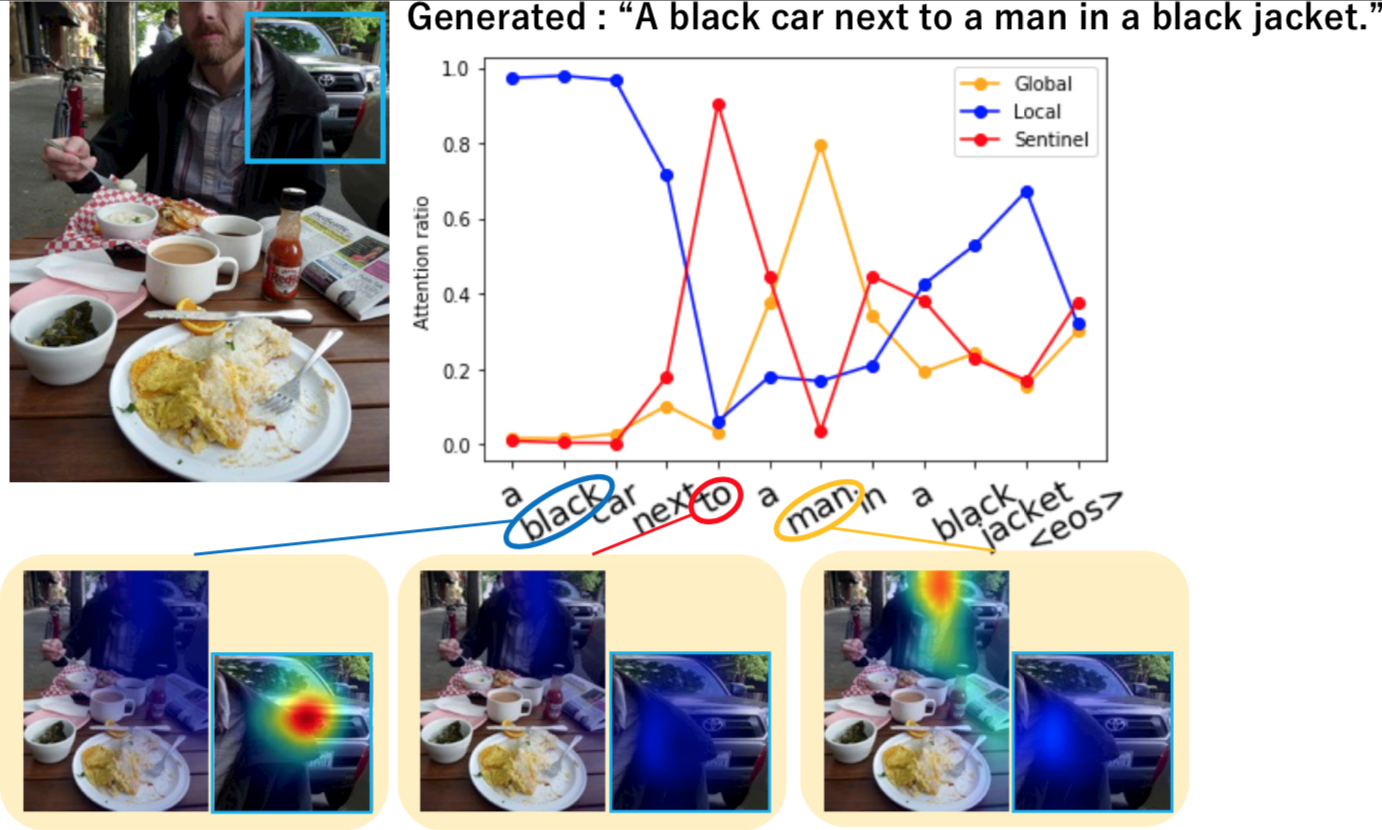
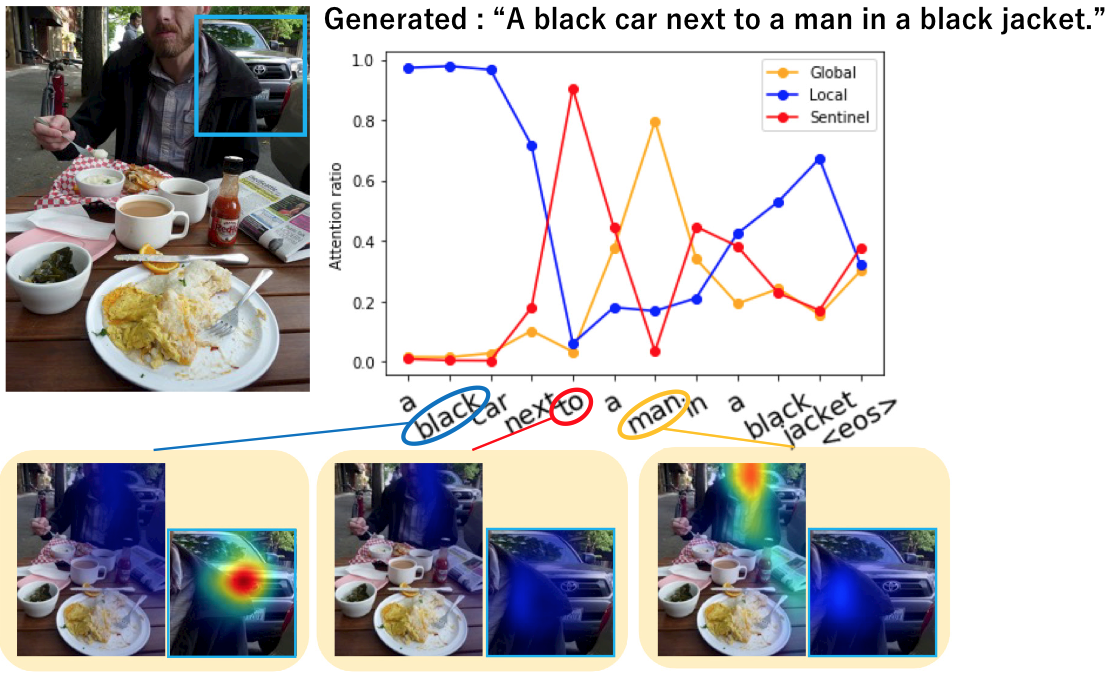
add fig

Changed region(s): [[0.0, 0.0, 1.0, 1.0], [0.827, 0.6834, 0.8577, 0.7145]]

diff --git a/README.md b/README.md
@@ -1,6 +1,11 @@
 # Code of [Towards Human-Friendly Referring Expression Generation](https://arxiv.org/abs/1811.12104)
+- Results	from Our dataset(RefGTA)
 
-![results](https://raw.githubusercontent.com/mikittt/Human_Friendly_REG/master/demo/fig1.png?token=APgkj3-CtGqGhLIpPYJKbGtUJYp1wCi-ks5cDivlwA%3D%3D)
+![results](https://raw.githubusercontent.com/mikittt/Human_Friendly_REG/master/demo/fig1.png)
+
+- Results	from RefCOCOg
+
+<img src="https://raw.githubusercontent.com/mikittt/Human_Friendly_REG/master/demo/fig2.png" width="240">
 
 This code is implemented in python3 with [Chainer](https://github.com/chainer/chainer).
 
